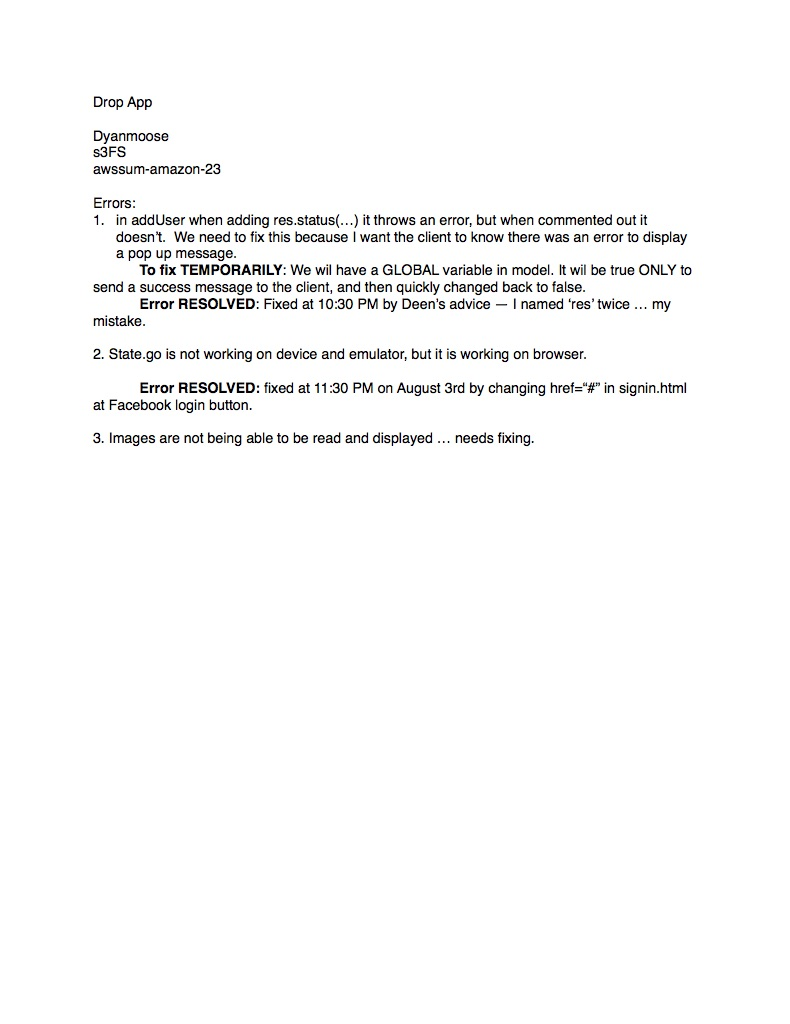
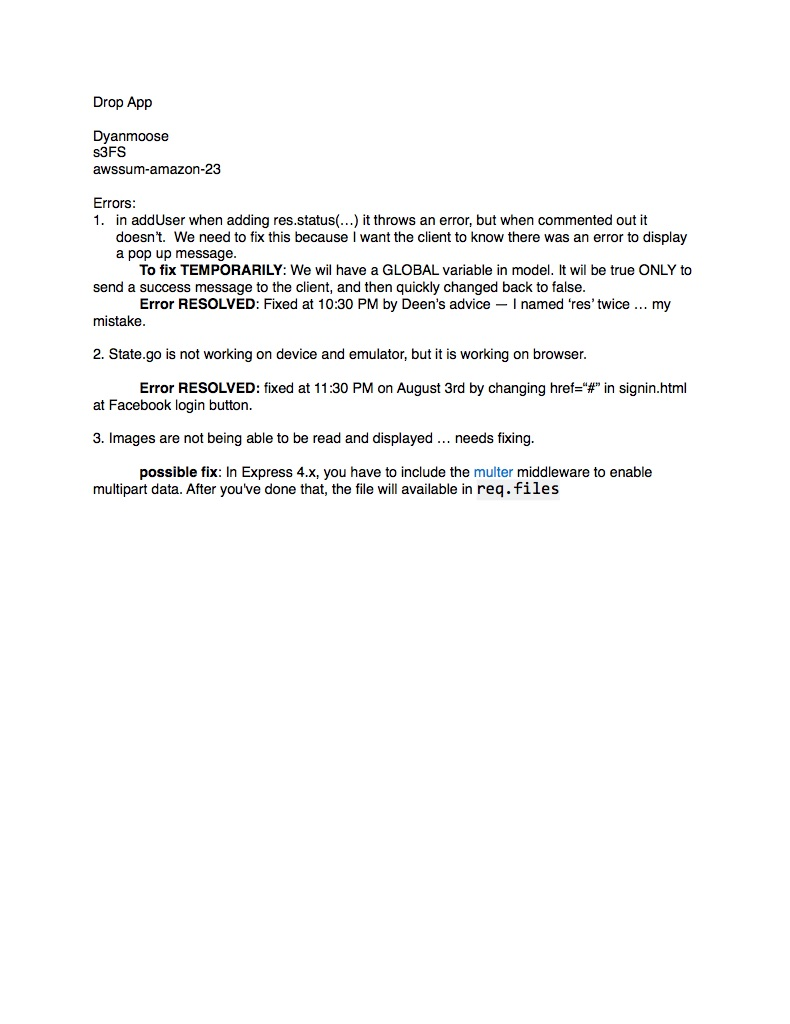
attempting to add image functionality

Changed region(s): [[0.1215, 0.4375, 0.8203, 0.5]]

diff --git a/Frontend/www/js/controllers.js b/Frontend/www/js/controllers.js
@@ -19,6 +19,7 @@ angular.module('starter.controllers', [])
 
     UserAPI.getImage().then( function(result) {
         if( result ) {
+            console.log(result);
             console.log(result.data.data.data);
             console.log($base64.decode(result.data.data.data));
         } else {
@@ -49,57 +50,121 @@ angular.module('starter.controllers', [])
   $scope.chat = Chats.get($stateParams.chatId);
 })
 
-.controller('AccountCtrl', function($scope , $ionicPopup , UserAPI , $base64) {
+.controller('AccountCtrl', function($scope , $ionicPopup , UserAPI , $base64 , Upload , $http) {
 
-  //   function onDeviceReady() {
-  //       pictureSource = navigator.camera.PictureSourceType;
-  //       destinationType = navigator.camera.DestinationType;
-  //   }
+    function onDeviceReady() {
+        pictureSource = navigator.camera.PictureSourceType;
+        destinationType = navigator.camera.DestinationType;
+    }
+
+    document.addEventListener("deviceready", onDeviceReady, false);
+
+    function onPhotoFileSuccess(imageData) {
+
+        //pop up
+        var myPopUp = $ionicPopup.show( {
+            title: 'Image: ' + imageData ,
+            buttons: [ {
+                text: "Got it" ,
+                type: 'button-positive'
+            } ] ,
+            onTap: function(e) {
+                e.preventDefault();
+            }
+        });
+
+  // Get image handle
+        console.log(JSON.stringify(imageData));
+
+   	  // Get image handle
+      //
+        var srcImage = document.getElementById('srcImage');
+      // Unhide image elements
+      //
+        srcImage.style.display = 'block';
+      // Show the captured photo
+      // The inline CSS rules are used to resize the image
+      //
+        srcImage.src = imageData;
+
+        var doIt = {
+            data: imageData ,
+            contentType: 'base64' ,
+            name: 'zain'
+        }
+
+        UserAPI.addItem(doIt);
+
+    }
+
+    function onFail(message) {
+        alert('Failed because: ' + message);
+    }
+
+    $scope.capturePhotoWithFile = function() {
+        navigator.camera.getPicture(onPhotoFileSuccess, onFail, { quality: 50 , destinationType: Camera.DestinationType.DATA_URL });
+    }
+
+  // console.log('srcImage: ' + document.getElementById('srcImage').src);
+  // var imageData = document.getElementById('srcImage');
+  // var fd = new FormData();
+  // fd.append('file' , document.getElementById('srcImage'));
+  // console.log('fd is + ' + JSON.stringify( fd ) );
+  // var uploadUrl = '/api/v1/users/addItem';
   //
-  //   document.addEventListener("deviceready", onDeviceReady, false);
+  // $http.post(uploadUrl,fd, {
+  //           transformRequest: angular.identity,
+  //           headers: {'Content-Type': undefined} ,
+  //           params: {
+  //               fd
+  //           }
+  //       })
+  //       .success(function(){
+  //         console.log("success!!");
+  //       })
+  //       .error(function(){
+  //         console.log("error!!");
+  //       });
+
+  // var imageDetails = $base64.encode(document.getElementById('srcImage'));
   //
-  //   function onPhotoFileSuccess(imageData) {
-  // // Get image handle
-  //       console.log(JSON.stringify(imageData));
+  // console.log('imageDetails: ' + imageDetails );
   //
-  //  	  // Get image handle
-  //     //
-  //       var srcImage = document.getElementById('srcImage');
-  //     // Unhide image elements
-  //     //
-  //       srcImage.style.display = 'block';
-  //     // Show the captured photo
-  //     // The inline CSS rules are used to resize the image
-  //     //
-  //       srcImage.src = imageData;
+  // $scope.item = {
+  //     data: imageDetails ,
+  //     contentType: 'image/png' ,
+  //     name: 'blabla'
+  // }
   //
+  // console.log($scope.item);
   //
-  //   }
-  //
-  //   function onFail(message) {
-  //       alert('Failed because: ' + message);
-  //   }
-  //
-  //   $scope.capturePhotoWithFile = function() {
-  //       navigator.camera.getPicture(onPhotoFileSuccess, onFail, { quality: 50 , destinationType: Camera.DestinationType.FILE_URI });
-  //   }
+  // UserAPI.addItem($scope.item);
 
-  var imageDetails = $base64.encode(document.getElementById('srcImage'));
+  /* USING ng-file-upload */
 
-  console.log('imageDetails: ' + imageDetails );
+  // $scope.uploadPhoto = function () {
+  //     var imageDetail = document.getElementById('srcImage');
+  //       Upload.upload({
+  //           url: '/api/v1/users/addItem',
+  //           method: 'POST' ,
+  //           data: { name: 'zain' } ,
+  //           file: imageDetail //we might need to change this ...
+  //       }).then(function (resp) {
+  //           console.log('Success ');
+  //       }, function (resp) {
+  //           console.log('Erro');
+  //       });
+  //   };
 
-  $scope.item = {
-      data: imageDetails ,
-      contentType: 'image/png' ,
-      name: 'blabla'
-  }
-
-  console.log($scope.item);
-
-  UserAPI.addItem($scope.item);
-
-
-
+    // var item = {
+    //     data: document.getElementById('srcImage') ,
+    //     contentType: 'image/png' ,
+    //     name: 'Zain'
+    // }
+    // $scope.upload = function () {
+    //     console.log('Adding image ... ');
+    //     UserAPI.addItem(item);
+    // };
 
 
 

diff --git a/Backend/Data_Manager/userManager.js b/Backend/Data_Manager/userManager.js
@@ -11,6 +11,8 @@ var Model = require('../Models/models');
 var pwdManager = require('../Authentication/managePasswords');
 var express = require('express');
 var fs = require('fs');
+var multer = require('multer');
+var upload = multer( { dest: '../imageUploads'} );
 
 /* Add user */
 exports.addUser = function( req , res ) {
@@ -127,25 +129,33 @@ exports.loginUser = function( req , res ) {
 
 exports.addItem = function( req , res ) {
 
-    // var imgPath = "../Frontend/www/img/ben.png";
+    console.log('someone pinged me');
 
-    var data = req.body.data;
+    /* Statement below prints: url, method, AND name ... Does not print then
+        'file' parameter -- working on that now. Could be a multer issue -- we need
+        to add enctype="multipart/form-data" ... that could be a potential problem. */
 
-    var im = new Model.image;
-    im.data = data;
-    im.contentType = 'image/png';
-    im.name = req.body.name;
+    // console.log('req.files: ' + JSON.stringify(req.file) );
+    //
+    // console.log('im.name is: ' + im.data );
 
-    console.log('im is: ' + im );
+    // im.save( function(err) {
+    //     if( err ) {
+    //         console.log("error!!");
+    //     } else {
+    //         console.log("image added!!");
+    //     }
+    // });
 
+    var im = new Model.image( req.body );
     im.save( function(err) {
         if( err ) {
-            console.log("error!!");
+            console.log('error');
         } else {
-            console.log("image added!!");
+            console.log('image added!');
         }
     });
-
+    
 };
 
 exports.getImage = function( req , res ) {

diff --git a/Backend/Routes/routes.js b/Backend/Routes/routes.js
@@ -4,6 +4,9 @@ var _server;
 var dataManager;
 var objectId;
 
+var multer = require('multer');
+var upload = multer( { dest: '../imageUploads'} );
+
 exports.init = function( server , dataManagers ) {
     _server = server;
     dataManager = dataManagers;
@@ -14,6 +17,6 @@ exports.userSetup = function userSetup() {
     console.log("Setting up users.");
     _server.post('/api/v1/users/addUser' , dataManager.users.addUser );
     _server.post('/api/v1/users/loginUser' , dataManager.users.loginUser );
-    _server.post('/api/v1/users/addItem' , dataManager.users.addItem );
+    _server.post('/api/v1/users/addItem' , upload.single('lol') , dataManager.users.addItem );
     _server.get('/api/v1/users/getImage' , dataManager.users.getImage );
 }

diff --git a/Frontend/www/js/app.js b/Frontend/www/js/app.js
@@ -5,7 +5,8 @@
 // the 2nd parameter is an array of 'requires'
 // 'starter.services' is found in services.js
 // 'starter.controllers' is found in controllers.js
-angular.module('starter', ['ionic', 'starter.controllers', 'starter.services' , 'ngCordovaOauth' , 'ui.router' , 'ngCordova' , 'base64'])
+angular.module('starter', ['ionic', 'starter.controllers', 'starter.services' , 'ngCordovaOauth' , 'ui.router' ,
+'ngCordova' , 'base64' , 'ngFileUpload'])
 
 .run(function($ionicPlatform) {
   $ionicPlatform.ready(function() {

diff --git a/Frontend/www/templates/tab-account.html b/Frontend/www/templates/tab-account.html
@@ -3,7 +3,7 @@
 
       <h1>Hi</h1>
 
-      <img src="../img/ben.png" id="srcImage" width="250 " height="250" style="display: block; margin: 0 auto;"/><br/>
+      <img type="file" enctype="multipart/form-data" src="../img/ben.png" id="srcImage" name="lol" width="250 " height="250" style="display: block; margin: 0 auto;"/><br/>
       <button class="button button-full button-positive " ng-click="capturePhotoWithFile()">Take Image</button><br/>
 
   </ion-content>

diff --git a/Frontend/www/js/services.js b/Frontend/www/js/services.js
@@ -49,7 +49,7 @@ angular.module('starter.services', [])
   };
 })
 .factory('UserAPI' , function($http , $ionicPopup , $state) {
-    var base = "http://localhost:8080" /*"https://stormy-taiga-50511.herokuapp.com"*/
+    var base = /*"http://localhost:8080"*/ "https://stormy-taiga-50511.herokuapp.com"
 
     return {
         addUser: function(user) {

diff --git a/Frontend/www/index.html b/Frontend/www/index.html
@@ -27,6 +27,8 @@
 
     <!-- ionic/angularjs js -->
     <script src="lib/ionic/js/ionic.bundle.js"></script>
+    <script src="js/ng-file-upload-shim.min.js"></script>
+    <script src="js/ng-file-upload.js"></script>
 
     <!-- cordova script (this will be a 404 during development) -->
     <script src="js/ng-cordova.js"></script>

diff --git a/Backend/Models/models.js b/Backend/Models/models.js
@@ -28,7 +28,7 @@ var schoolSchema = new Schema({
 });
 
 var imageSchema = new Schema({
-    data: Buffer ,
+    data: String ,
     contentType: String ,
     name: String
 });
